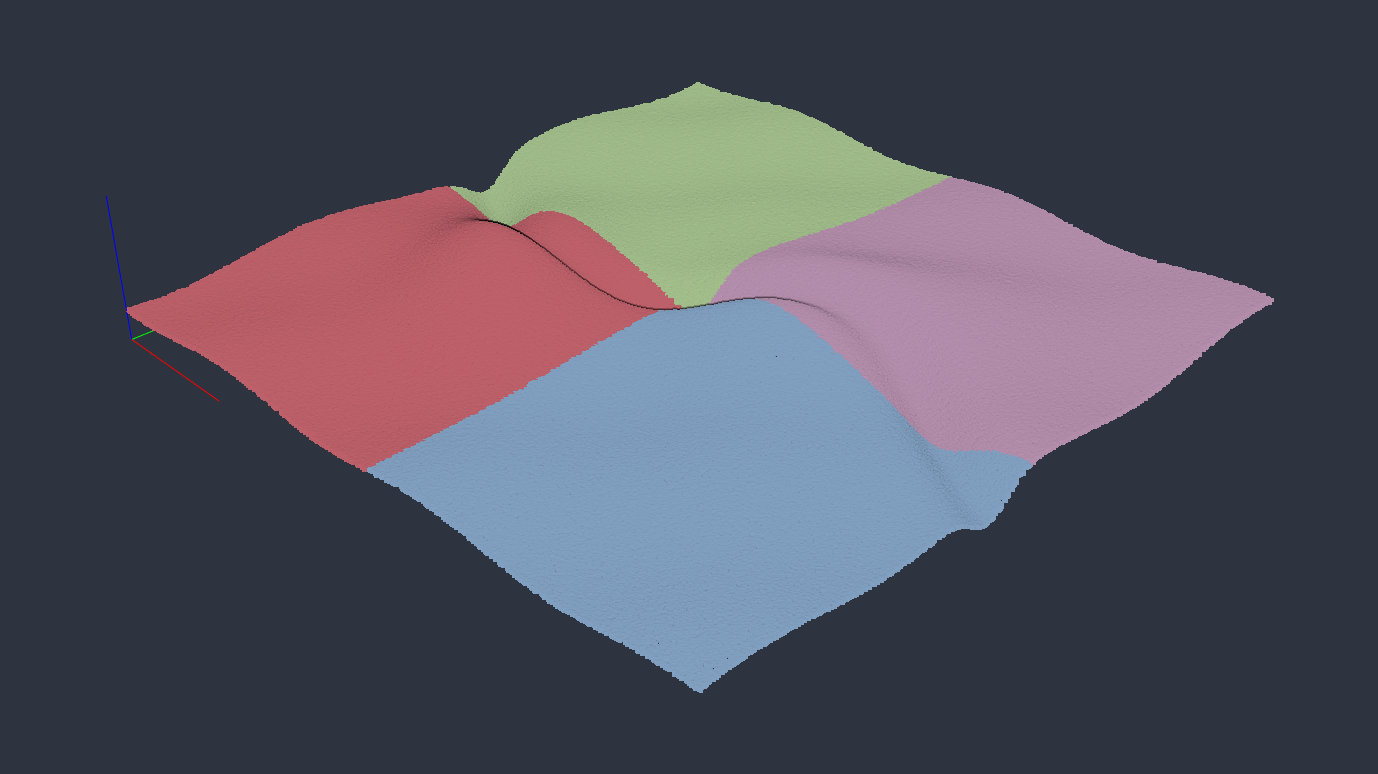
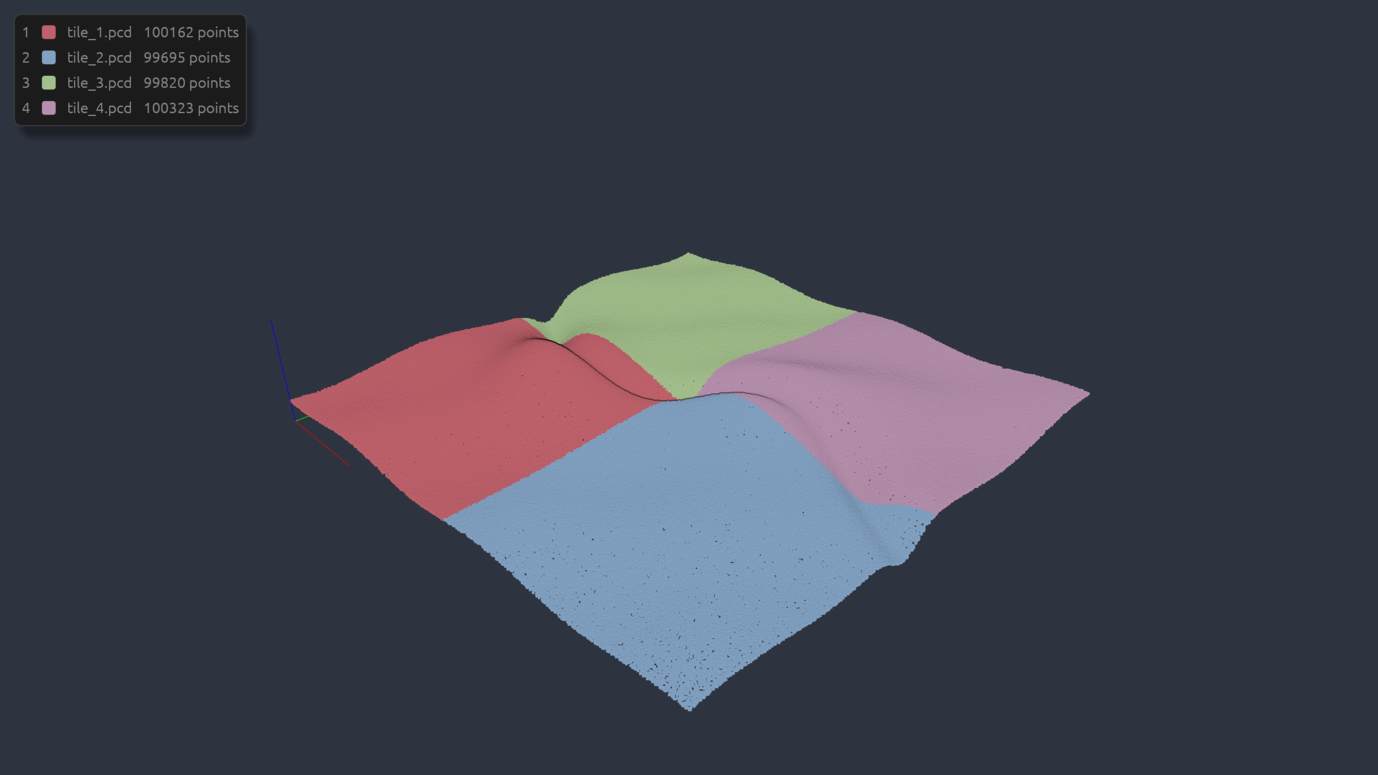
docs(readme): viewer screenshot with the legend

diff --git a/README.md b/README.md
@@ -8,7 +8,7 @@ thumbnails for them in Nautilus (GNOME Files). One Rust binary does both:
 a window for looking at the files, and `tridi thumb`, which Nautilus calls
 to draw their previews without a window or a GPU.
 
-![Four point cloud tiles in the viewer, one color each](docs/viewer.png)
+![Four point cloud tiles in the viewer, one color each, and the legend of the files](docs/viewer.png)
 
 ![Nautilus showing tridi's thumbnails of pcd, xyzrgb, stl, obj, glb and step files](docs/nautilus.png)
 
@@ -24,7 +24,7 @@ to draw their previews without a window or a GPU.
 | | |
 |---|---|
 | ![Orbiting, panning and zooming four point cloud tiles, then R](docs/navigate.gif) | **Navigation**: left drag orbits, right or middle drag (or shift + left) pans, the wheel zooms, `R` resets the view. |
-| ![Four tiles turned off and on with the keys 1 to 4](docs/files.gif) | **Several files at once**, one color each, so they tell apart; `1`–`9` turn the N-th file off and on. A file's own colors always win. |
+| ![Four tiles turned off and on with the keys 1 to 4](docs/files.gif) | **Several files at once**, one color each, so they tell apart; `1`–`9` turn the N-th file off and on, and a legend top left says which is which. A file's own colors always win. |
 | ![The point size growing and shrinking](docs/points.gif) | **Point size** with `+` and `-`; eye-dome lighting gives the cloud its depth. |
 | ![The same scene in the light and the dark theme](docs/themes.png) | **Two themes** (Nord light and dark) for the window and the thumbnails: `tridi theme dark`. |
 
